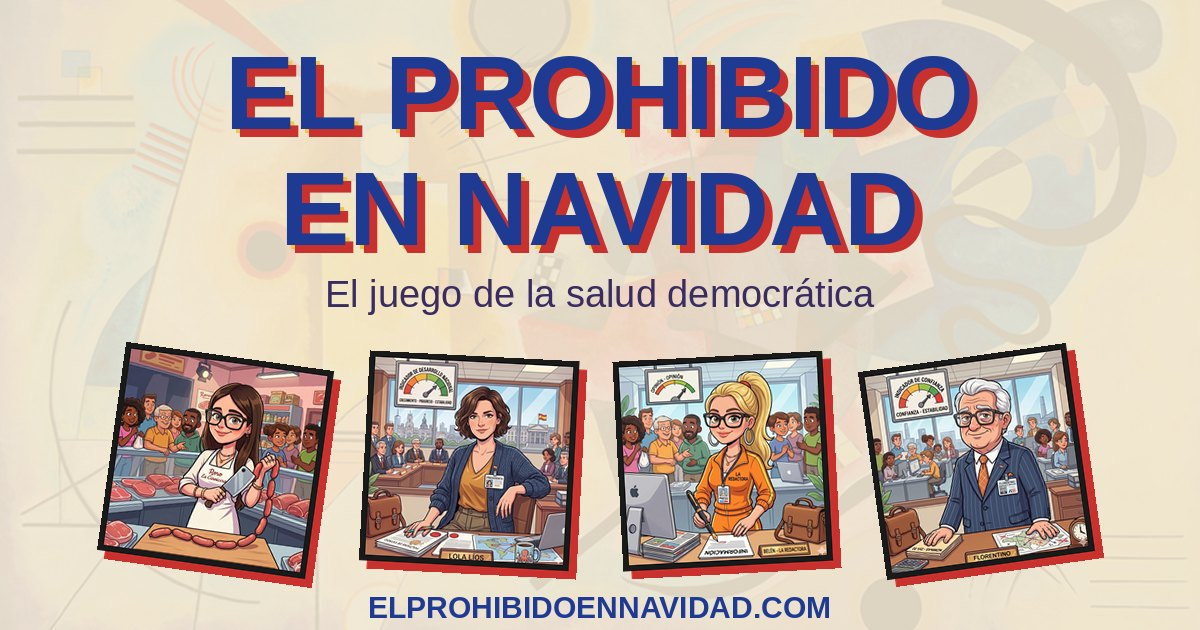
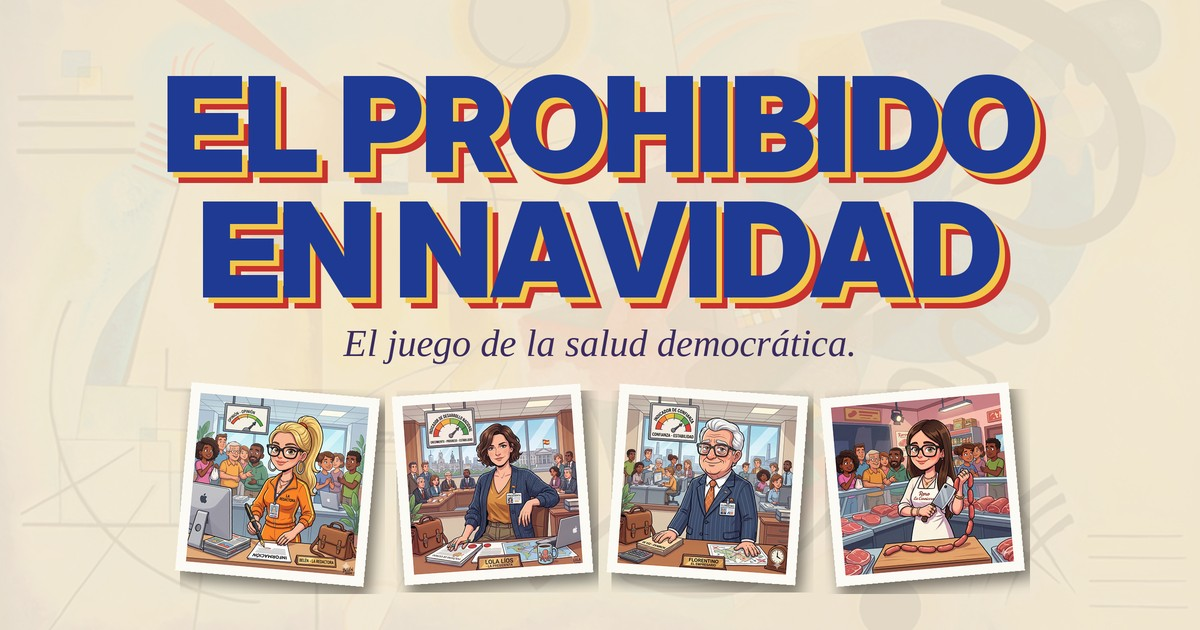
Restyle share preview to match in-game typography
Regenerate the Open Graph image with the game's exact title type
(Inter 900 cobalt blue with the layered yellow/red shadow) and a
serif-italic violet subtitle, drop the bottom URL, and bump the
og:image cache-buster to v2 so apps refetch it.

diff --git a/index.html b/index.html
@@ -12,7 +12,7 @@
     <meta property="og:url" content="https://elprohibidoennavidad.com/">
     <meta property="og:title" content="El Prohibido en Navidad">
     <meta property="og:description" content="El juego de la salud democrática. Mantened viva la ciudad antes de que la desinformación, la apatía y la desconfianza la dejen en urgencias.">
-    <meta property="og:image" content="https://elprohibidoennavidad.com/assets/img/og-image.jpg?v=1">
+    <meta property="og:image" content="https://elprohibidoennavidad.com/assets/img/og-image.jpg?v=2">
     <meta property="og:image:width" content="1200">
     <meta property="og:image:height" content="630">
     <meta property="og:image:alt" content="El Prohibido en Navidad — el juego de la salud democrática">
@@ -23,7 +23,7 @@
     <meta name="twitter:card" content="summary_large_image">
     <meta name="twitter:title" content="El Prohibido en Navidad">
     <meta name="twitter:description" content="El juego de la salud democrática.">
-    <meta name="twitter:image" content="https://elprohibidoennavidad.com/assets/img/og-image.jpg?v=1">
+    <meta name="twitter:image" content="https://elprohibidoennavidad.com/assets/img/og-image.jpg?v=2">
 
     <link rel="stylesheet" href="assets/css/styles.css">
     <link href="https://fonts.googleapis.com/css2?family=Inter:wght@400;600;800&display=swap" rel="stylesheet">
